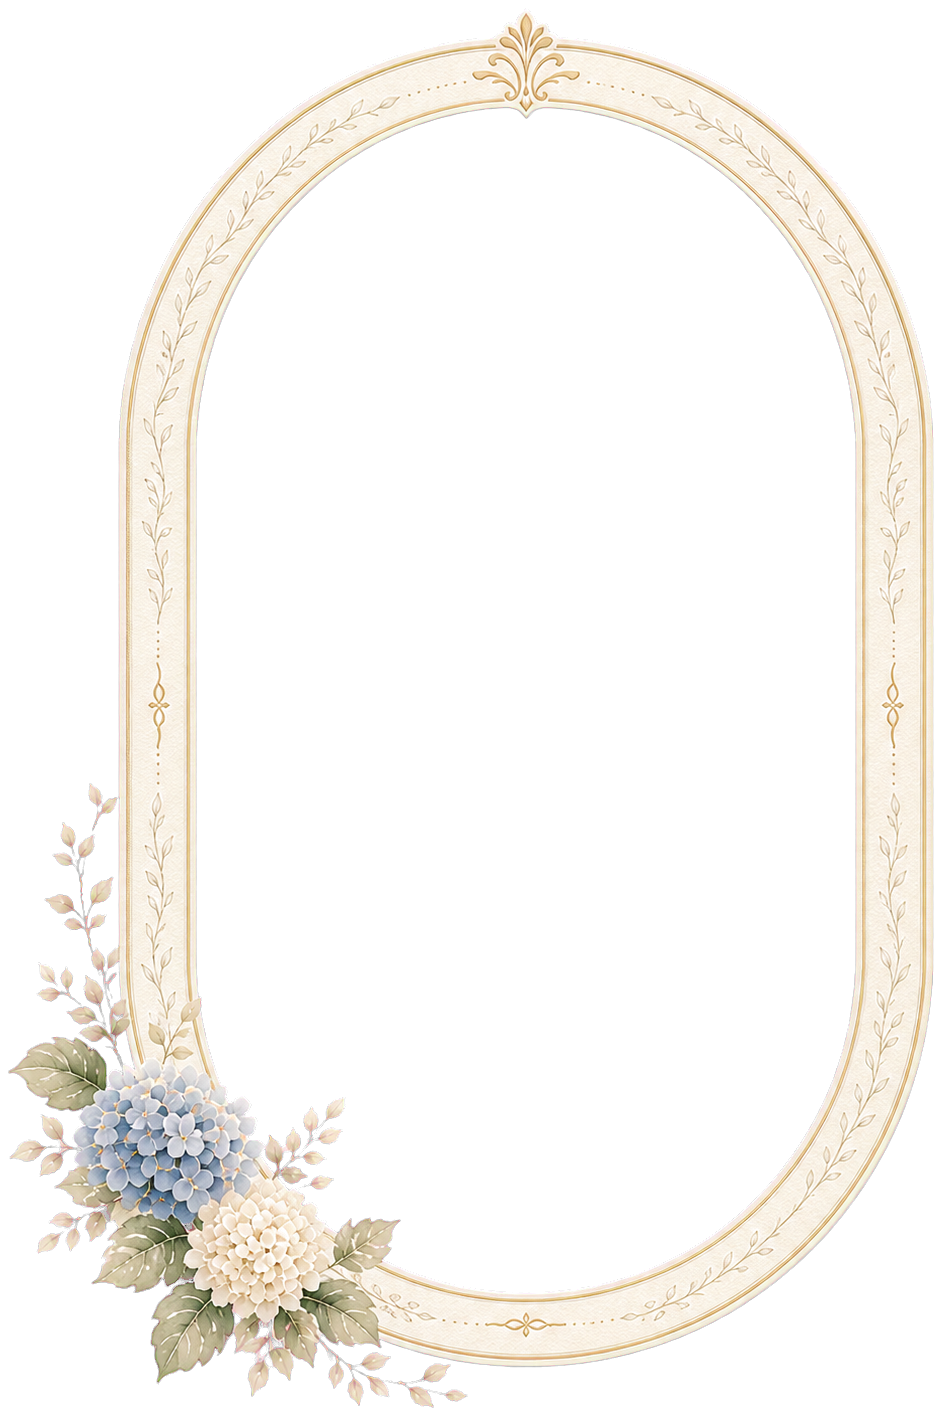
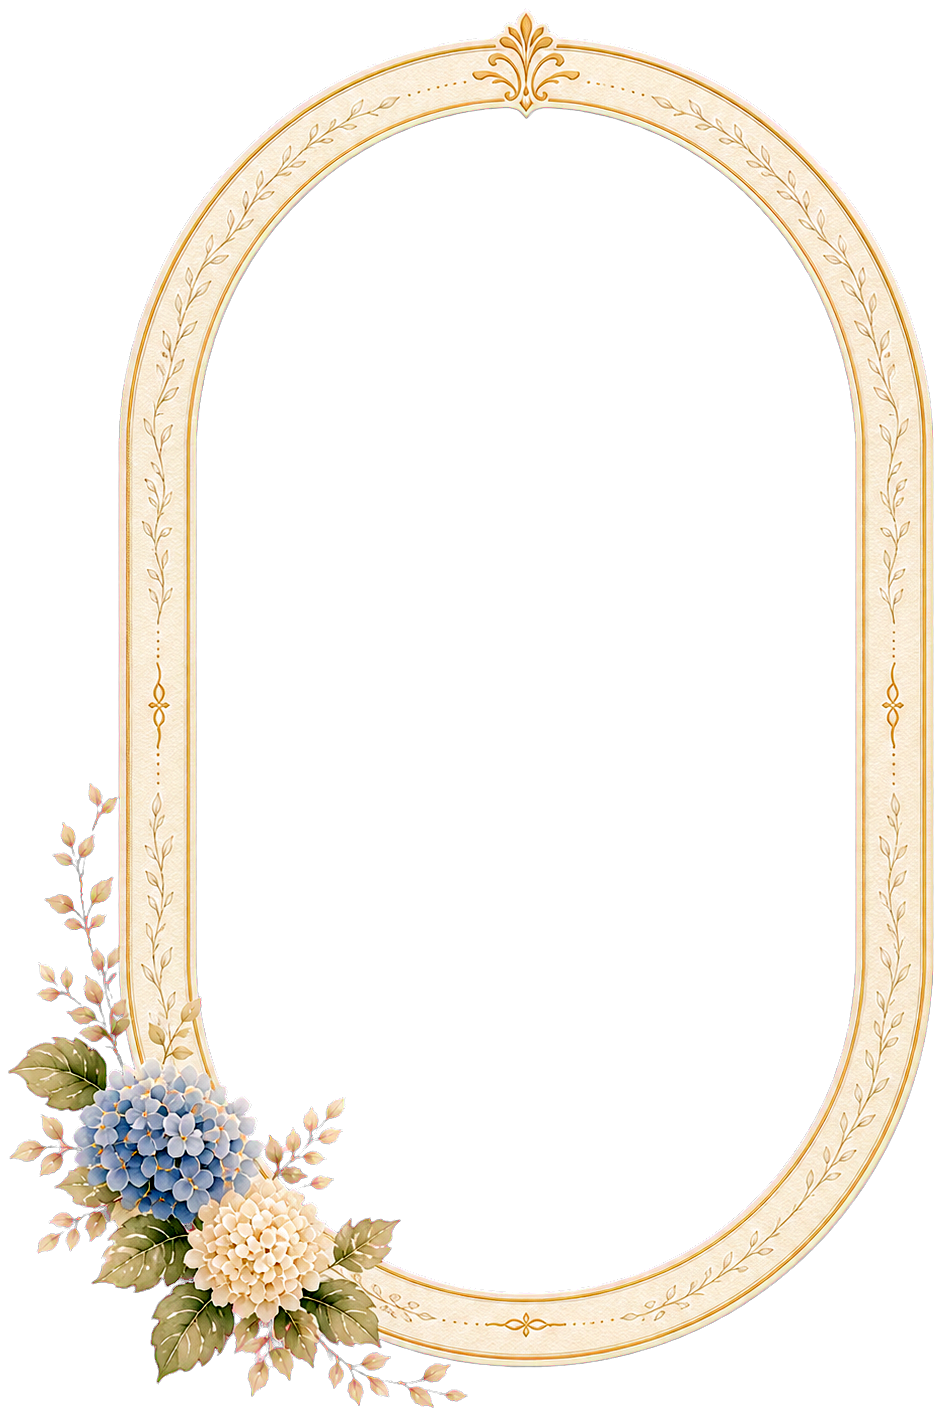
Refine ornament and frame rendering

Changed region(s): [[0.0, 0.0, 1.0, 0.9944]]

diff --git a/app/globals.css b/app/globals.css
@@ -108,7 +108,6 @@ button {
   user-select: none;
   opacity: 0;
   will-change: transform, opacity;
-  filter: saturate(.82) contrast(.96);
 }
 
 .floral-top-left {
@@ -725,6 +724,9 @@ button {
   inset: 0;
   width: 100%;
   height: 100%;
+  opacity: 1;
+  filter: none;
+  mix-blend-mode: normal;
   pointer-events: none;
 }
 
@@ -919,6 +921,9 @@ button {
   display: block;
   width: 100%;
   height: 100%;
+  opacity: 1;
+  filter: none;
+  mix-blend-mode: normal;
   pointer-events: none;
 }
 
@@ -1310,10 +1315,10 @@ button {
   display: block;
   width: 62%;
   height: auto;
-  opacity: .92;
   pointer-events: none;
   user-select: none;
-  mix-blend-mode: multiply;
+  filter: none;
+  mix-blend-mode: normal;
   opacity: 0;
   transform: translate3d(-58px, 0, 0) scale(.96);
   transform-origin: top left;
@@ -1324,7 +1329,7 @@ button {
 }
 
 .gallery-left-ornament.is-visible {
-  opacity: .92;
+  opacity: 1;
   transform: translate3d(0, 0, 0) scale(1);
   will-change: auto;
 }
@@ -2467,12 +2472,12 @@ body.invitation-open .invitation {
 
 @keyframes bloom-top-left {
   from { opacity: 0; transform: translate(-22%, -18%) rotate(-4deg) scale(.76); }
-  to { opacity: .88; transform: translate(0, 0) rotate(0) scale(1); }
+  to { opacity: 1; transform: translate(0, 0) rotate(0) scale(1); }
 }
 
 @keyframes bloom-top-right {
   from { opacity: 0; transform: translate(24%, -14%) rotate(5deg) scale(.78); }
-  to { opacity: .86; transform: translate(0, 0) rotate(0) scale(1); }
+  to { opacity: 1; transform: translate(0, 0) rotate(0) scale(1); }
 }
 
 @keyframes vine-arrival {
@@ -2482,12 +2487,12 @@ body.invitation-open .invitation {
 
 @keyframes bloom-bottom-left {
   from { opacity: 0; transform: translate(-20%, 24%) rotate(5deg) scale(.78); }
-  to { opacity: .97; transform: translate(0, 0) rotate(0) scale(1); }
+  to { opacity: 1; transform: translate(0, 0) rotate(0) scale(1); }
 }
 
 @keyframes bloom-bottom-right {
   from { opacity: 0; transform: translate(22%, 25%) rotate(-5deg) scale(.78); }
-  to { opacity: .97; transform: translate(0, 0) rotate(0) scale(1); }
+  to { opacity: 1; transform: translate(0, 0) rotate(0) scale(1); }
 }
 
 @keyframes content-arrival {
